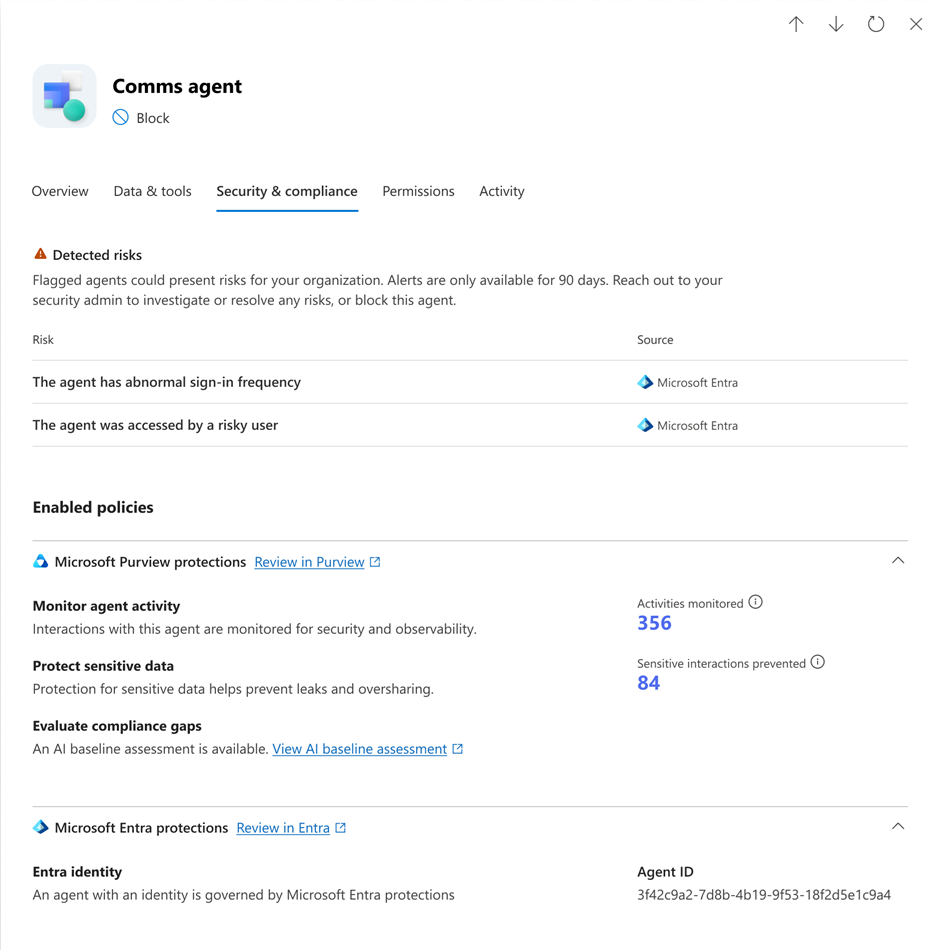
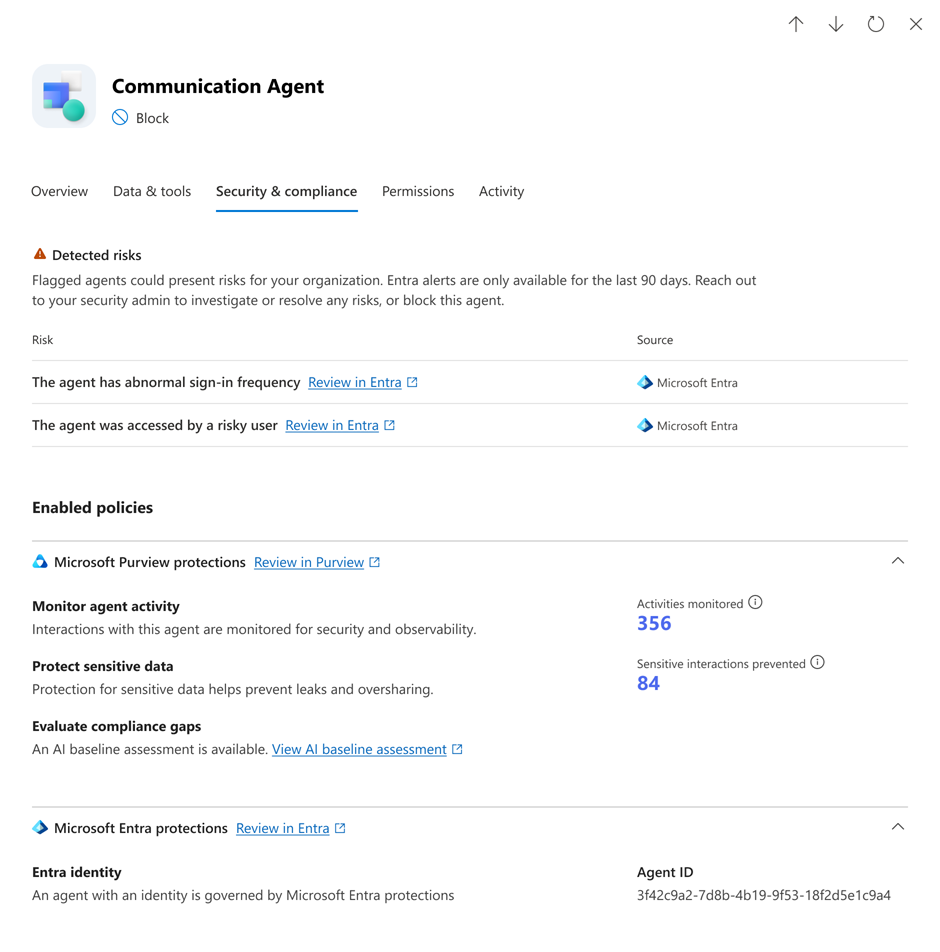
Update image

diff --git a/microsoft-365/admin/manage/agent-registry.md b/microsoft-365/admin/manage/agent-registry.md
@@ -717,4 +717,4 @@ Access is permission based. Global Admins can take corrective actions directly i
 
 > [!NOTE]
 >
-> The **Risks** column reflects Microsoft Entra alerts from the past 90 days, consistent with Microsoft Entra's retention policy. Agents that no longer return active alerts because the underlying alerts are aged beyond the 90 day window appear as blank in the column. As a result, some agents might continue to be marked **at risk** within Microsoft Entra even if no corresponding alert appears in Microsoft 365 admin center's **Risks** column.
+> The **Risks** column reflects Microsoft Entra alerts from the past 90 days, consistent with Microsoft Entra's retention policy. Agents that no longer return active alerts because the underlying alerts are aged beyond the 90 day window appear as blank in the column. As a result, some agents might continue to be marked **at risk** within Microsoft Entra even if no corresponding alert appears in Microsoft 365 admin center's **Risks** column. Additionally, agents that don't have a valid Microsoft Entra ID associated with them can't surface alerts and also appear as blank in the **Risks** column.
